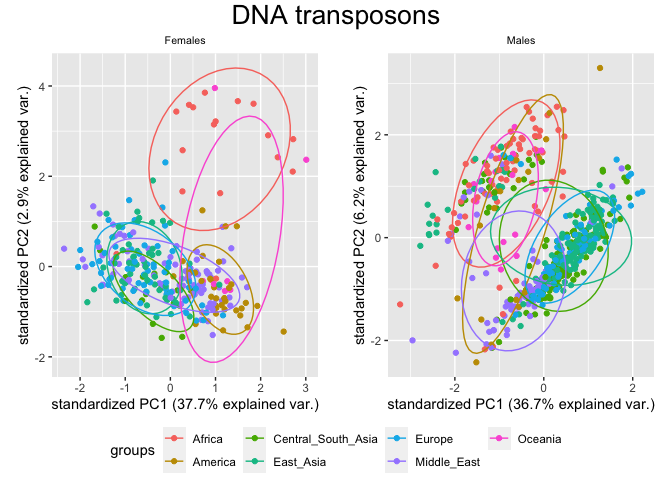
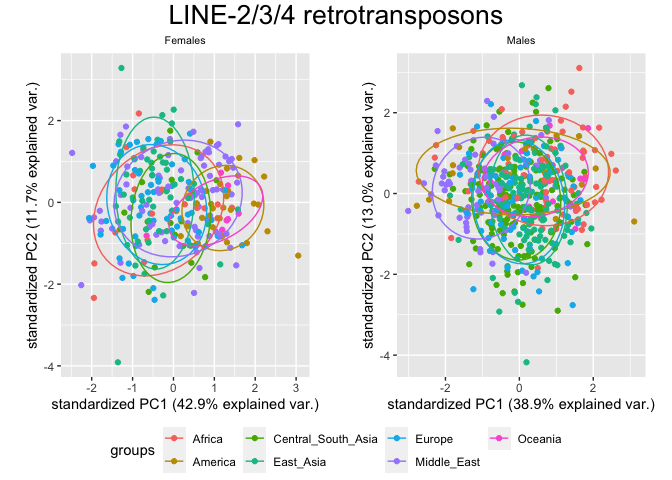
Script 6 mod
Update script 6 (PCA) with better classification of TEs

diff --git a/ric_documentation/HGDP/06_HGDP_PCA.md b/ric_documentation/HGDP/06_HGDP_PCA.md
@@ -10,7 +10,7 @@ library(tidyverse)
 ```
 
     ## ── Attaching packages ─────────────────────────────────────── tidyverse 1.3.2 ──
-    ## ✔ ggplot2 3.3.6      ✔ purrr   0.3.4 
+    ## ✔ ggplot2 3.4.0      ✔ purrr   0.3.4 
     ## ✔ tibble  3.1.8      ✔ dplyr   1.0.10
     ## ✔ tidyr   1.2.1      ✔ stringr 1.4.1 
     ## ✔ readr   2.1.2      ✔ forcats 0.5.2 
@@ -191,28 +191,34 @@ families_in_HGDP <- filter(HGDPcutoff, type=="te") %>% distinct(familyname) %>% 
 
 classification <- filter(classification_tot, familyname %in% families_in_HGDP)
 
-(HGDP_class <- inner_join(HGDPcutoff, classification, by="familyname"))
+HGDP_class <- full_join(HGDPcutoff, classification, by="familyname")
+
+write_tsv(HGDP_class, "/Volumes/Temp1/rpianezza/TE/summary-HGDP/HGDP_cutoff_classified.tsv", col_names = TRUE)
+
+DNA_names <- c("Crypton", "hAT", "Helitron", "Kolobok", "Mariner/Tc1", "Merlin", "MuDR", "piggyBac", "DNA transposon")
+LINE_names <- c("L1", "CR1", "L2", "Crack", "RTE", "RTEX", "R4", "Vingi", "Tx1", "Penelope")
+SINE_names <- c("SINE1/7SL", "SINE2/tRNA", "SINE3/5S", "SINE")
+LTR_names <- c("ERV1", "ERV2", "ERV3", "Gypsy", "Endogenous Retrovirus", "LTR Retrotransposon", "Long terminal repeat", "Non-LTR Retrotransposon")
+satellites_names <- c("Satellite", "satellite", "SAT")
+
+(classification <- HGDP_class %>% mutate(class = case_when(superfamily %in% DNA_names ~ "DNA", superfamily %in% LINE_names ~ "LINE", superfamily %in% SINE_names ~ "SINE", superfamily %in% LTR_names ~ "LTR", superfamily %in% satellites_names ~ "satellite")))
 ```
 
-    ## # A tibble: 799,020 × 12
-    ##    ID      Pop   sex   Country type  famil…¹ length  reads copyn…² batch super…³
-    ##    <chr>   <chr> <chr> <chr>   <chr> <chr>    <dbl>  <dbl>   <dbl> <chr> <chr>  
-    ##  1 HGDP00… Brah… male  Centra… te    LTR65      669 1.10e3 6.57e+0 ro    ERV1   
-    ##  2 HGDP00… Brah… male  Centra… te    HERVK3I   7242 3.89e4 2.15e+1 ro    ERV2   
-    ##  3 HGDP00… Brah… male  Centra… te    HERV9     8399 3.12e5 1.49e+2 ro    ERV1   
-    ##  4 HGDP00… Brah… male  Centra… te    L1PA12…   3072 6.41e4 8.36e+1 ro    L1     
-    ##  5 HGDP00… Brah… male  Centra… te    LTR27C     767 3.13e3 1.63e+1 ro    ERV1   
-    ##  6 HGDP00… Brah… male  Centra… te    LTR16A1    457 4.14e2 3.63e+0 ro    ERV3   
-    ##  7 HGDP00… Brah… male  Centra… te    Tigger…    933 9.32e0 4.01e-2 ro    Marine…
-    ##  8 HGDP00… Brah… male  Centra… te    LTR23      437 7.70e3 7.06e+1 ro    ERV1   
-    ##  9 HGDP00… Brah… male  Centra… te    X32_DNA    336 4.38e1 5.22e-1 ro    Marine…
-    ## 10 HGDP00… Brah… male  Centra… te    LTR53      519 1.36e3 1.05e+1 ro    ERV3   
-    ## # … with 799,010 more rows, 1 more variable: shared_with <chr>, and abbreviated
-    ## #   variable names ¹familyname, ²copynumber, ³superfamily
-
-``` r
-#write_tsv(HGDP_class, "HGDP_cutoff_classified.tsv", col_names = TRUE)
-```
+    ## # A tibble: 1,394,352 × 13
+    ##    ID       Pop   sex   Country type  famil…¹ length reads copyn…² batch super…³
+    ##    <chr>    <chr> <chr> <chr>   <chr> <chr>    <dbl> <dbl>   <dbl> <chr> <chr>  
+    ##  1 HGDP000… Brah… male  Centra… scg   chr1:9…   4152 1052.   1.02  ro    <NA>   
+    ##  2 HGDP000… Brah… male  Centra… scg   chr1:9…   5136 1092.   0.852 ro    <NA>   
+    ##  3 HGDP000… Brah… male  Centra… scg   chr1:1…   3064  832.   1.09  ro    <NA>   
+    ##  4 HGDP000… Brah… male  Centra… scg   chr1:1…   3239  901.   1.11  ro    <NA>   
+    ##  5 HGDP000… Brah… male  Centra… scg   chr1:1…   4035 1102.   1.09  ro    <NA>   
+    ##  6 HGDP000… Brah… male  Centra… scg   chr1:1…   2500  733.   1.18  ro    <NA>   
+    ##  7 HGDP000… Brah… male  Centra… scg   chr1:1…   2599  580.   0.895 ro    <NA>   
+    ##  8 HGDP000… Brah… male  Centra… scg   chr1:1…   2124  477.   0.900 ro    <NA>   
+    ##  9 HGDP000… Brah… male  Centra… scg   chr1:2…   6284 1527.   0.974 ro    <NA>   
+    ## 10 HGDP000… Brah… male  Centra… scg   chr1:2…   3222  884.   1.10  ro    <NA>   
+    ## # … with 1,394,342 more rows, 2 more variables: shared_with <chr>, class <chr>,
+    ## #   and abbreviated variable names ¹familyname, ²copynumber, ³superfamily
 
 This part of the code is work in progress. My idea was to give a bit of
 context to each RepSeq in the dataset, adding a column with the family
@@ -222,37 +228,32 @@ RepBase. I know that this approach is not only super slow but also error
 prone, so I will work on that to improve its reliability.
 
 ``` r
-list_DNA <- c('BLACKJACK', 'CHARLIE1', 'CHARLIE10', 'Charlie11', 'Charlie12', 'Charlie13a', 'Charlie13b', 'Charlie15a', 'Charlie16a', 'Charlie17a', 'Charlie18a', 'Charlie19a', 'CHARLIE1A', 'CHARLIE1B', 'CHARLIE2', 'Charlie21a', 'Charlie22a', 'Charlie24', 'Charlie25', 'Charlie26a', 'Charlie27', 'Charlie28', 'CHARLIE2A', 'CHARLIE2B', 'CHARLIE3', 'CHARLIE4', 'CHARLIE5', 'CHARLIE6', 'CHARLIE7', 'CHARLIE8', 'CHARLIE9', 'CHESHIRE', 'CHESHIRE_A', 'DNA1_Mam', 'EuthAT-1', 'EuthAT-2', 'EuthAT-2B', 'EuthAT-N1', 'Eutr17', 'Eutr7', 'Eutr8', 'EUTREP1', 'EUTREP3', 'EutTc1-N1', 'FORDPREFECT', 'FORDPREFECT_A', 'GOLEM', 'GOLEM_A', 'GOLEM_B', 'GOLEM_C', 'Helitron1Nb_Mam', 'Helitron3Na_Mam', 'HSMAR1', 'HSMAR2', 'HSTC2', 'Kanga1', 'Kanga11a', 'Kanga1d', 'KANGA2_A', 'LOOPER', 'MamRep137', 'MamRep1879', 'MamRep38', 'MamRep4096', 'MamRep434', 'MamRep488', 'MamTip2', 'MARE1', 'MARE10', 'MER103', 'MER103C', 'MER104', 'MER105', 'MER106', 'MER106B', 'MER107', 'MER112', 'MER113', 'MER113B', 'MER115', 'MER117', 'MER119', 'MER121', 'MER1A', 'MER1B', 'MER2', 'MER20', 'MER20B', 'MER28', 'MER2B', 'MER3', 'MER30', 'MER30B', 'MER33', 'MER44A', 'MER44B', 'MER44C', 'MER44D', 'MER45', 'MER45B', 'MER45C', 'MER45R', 'MER46C', 'MER47B', 'MER53', 'MER58A', 'MER58B', 'MER58C', 'MER58D', 'MER5A', 'MER5A1', 'MER5B', 'MER5C', 'MER5C1', 'MER6', 'MER63A', 'MER63B', 'MER63C', 'MER63D', 'MER69A', 'MER69B', 'MER69C', 'MER6A', 'MER6B', 'MER6C', 'MER75', 'MER75B', 'MER8', 'MER80', 'MER80B', 'MER82', 'MER91A', 'MER91B', 'MER96', 'MER96B', 'MER97A', 'MER97B', 'MER97C', 'MER99', 'Merlin1_HS', 'MERX', 'ORSL', 'ORSL-2a', 'ORSL-2b', 'RICKSHA', 'RICKSHA_0', 'Ricksha_a', 'TIGGER1', 'Tigger10', 'Tigger12', 'Tigger12A', 'Tigger13a', 'Tigger14a', 'Tigger15a', 'Tigger16a', 'Tigger16b', 'TIGGER2', 'Tigger2b_Pri', 'Tigger3b', 'Tigger3c', 'Tigger3d', 'Tigger4a', 'TIGGER5', 'TIGGER5_A', 'TIGGER5_B', 'TIGGER5A', 'TIGGER6A', 'TIGGER6B', 'TIGGER7', 'TIGGER8', 'TIGGER9', 'Tigger9b', 'UCON104', 'UCON107', 'UCON132a', 'UCON42', 'UCON74', 'UCON79', 'X1_DNA', 'X10b_DNA', 'X11_DNA', 'X12_DNA', 'X13_DNA', 'X15_DNA', 'X18_DNA', 'X20_DNA', 'X21_DNA', 'X23_DNA', 'X24_DNA', 'X25_DNA', 'X26_DNA', 'X27_DNA', 'X28_DNA', 'X29a_DNA', 'X29b_DNA', 'X2a_DNA', 'X2b_DNA', 'X30_DNA', 'X31_DNA', 'X32_DNA', 'X33a_DNA', 'X34_DNA', 'X4a_DNA', 'X4b_DNA', 'X5b_DNA', 'X6a_DNA', 'X6b_DNA', 'X7_DNA', 'X9a_DNA', 'X9b_DNA', 'X9c_DNA', 'ZAPHOD', 'ZOMBI', 'ZOMBI_A', 'ZOMBI_B', 'ZOMBI_C')
-
-list_LTR <- c('LTR104_Mam', 'LTR11', 'LTR85a', 'LTR85b', 'LTR85c', 'LTR90A', 'LTR90B', 'X1_LR', 'X2_LR', 'X3_LR', 'X4_LR')
-
-list_nonLTR <- c("ALINE", "ALU", "CR1_Mam", "HAL1", "HAL1B", "HAL1M8", "IN25", "L1", "L1HS", "L1M1_5", "L1M1B_5","L1M2A_5","L1M2A1_5","L1M2B_5","L1M2C_5","L1M3A_5","L1M3B_5","L1M3C_5","L1M3D_5","L1M3DE_5","L1M4B","L1M6_5end","L1M6B_5end","L1M7_5end","L1MA1","L1MA10","L1MA2","L1MA3","L1MA4","L1MA4A","L1MA5","L1MA5A","L1MA6","L1MA7","L1MA8","L1MA9","L1MA9_5","L1MB1","L1MB2","L1MB3","L1MB3_5","L1MB4","L1MB4_5","L1MB5","L1MB6_5","L1MB7","L1MB8","L1MC1","L1MC2","L1MC3","L1MC4","L1MC4_5end","L1MC4B","L1MC5","L1MCA_5","L1MCB_5","L1MCC_5","L1MD1","L1MD1_5","L1MD2","L1MD3","L1MDA_5","L1MDB_5","L1ME1","L1ME2","L1ME3","L1ME3A","L1ME3C_3end","L1ME3D_3end","L1ME3E_3end","L1ME3F_3end","L1ME4","L1ME4A","L1ME5","L1ME5_3end","L1MEA_5","L1MEB_5","L1MEC_5","L1MED_5","L1MEE_5","L1MEe_5end","L1MEf_5end","L1MEg_5end","L1P_MA2","L1P4a_5end","L1P4b_5end","L1P4c_5end","L1P4c_5end","L1P4e_5end","L1PA10","L1PA11","L1PA12","L1PA12_5","L1PA13","L1PA13_5","L1PA14","L1PA14_5","L1PA15","L1PA16","L1PA16_5","L1PA17_5","L1PA2","L1PA3","L1PA4","L1PA6","L1PA7","L1PA7_5","L1PA8","L1PB1","L1PB2","L1PB2c","L1PB3","L1PB4","L1PBA_5","L1PBA1_5","L1PBB_5","L1PREC1","L1PREC2","L2","L2B","L2C","L2D","L3","L3b_3end\t","L4","L5","MamSINE1","MARE3","MARE6","MIR","MIR3","MIRb","MIRc","SVA_A","THER1","THER1","UCON55","UCON86","X12_LINE","X13_LINE","X15_LINE","X17_LINE","X18_LINE","X19_LINE","X20_LINE","X21_LINE","X24_LINE","X3_LINE","L1M2_5","L1ME_ORF2","L1P4d_5end" )
-
-list_simple_repeats <- c('ALR', 'ALR_', 'ALR1', 'ALR2', 'ALRa', 'ALRa_', 'ALRb', 'BSRf', 'CER', 'GSAT', 'GSATII', 'GSATX', 'HSATI', 'HSATII', 'LSAU', 'MSR1', 'REP522', 'SATR1', 'SATR2', 'SN5', 'SVA2', 'TAR1')
-
-list_non_classified <- c('Eutr1', 'Eutr10', 'Eutr11', 'Eutr12', 'Eutr13', 'Eutr14', 'Eutr15', 'Eutr16', 'Eutr18', 'Eutr2', 'Eutr4', 'Eutr5', 'Eutr6', 'EUTREP11', 'EUTREP12', 'EUTREP14', 'EUTREP15', 'EUTREP2', 'EUTREP5', 'EUTREP6', 'EUTREP7', 'EUTREP8', 'MamRep564', 'MamRep605', 'MER35', 'MER122', 'MER124', 'UCON103', 'UCON105', 'UCON106', 'UCON32', 'UCON33', 'UCON38', 'UCON40', 'UCON43', 'UCON44', 'UCON45', 'UCON46', 'UCON47', 'UCON48', 'UCON53', 'UCON54', 'UCON63', 'UCON64', 'UCON65', 'UCON72', 'UCON75', 'UCON76', 'UCON84', 'UCON89', 'UCON93', 'UCON96')
+LINE <- filter(classification, type=="te", class=="LINE")
+PCA(LINE, "LINEs")
 ```
 
-``` r
-nonLTR <- subset(HGDPcutoff, type=="te") %>% filter(familyname %in% list_nonLTR)
-PCA(nonLTR, "Non-LTR retrotransposons")
-```
-
-![](06_HGDP_PCA_files/figure-gfm/unnamed-chunk-7-1.png)<!-- -->
+![](06_HGDP_PCA_files/figure-gfm/unnamed-chunk-6-1.png)<!-- -->
 
 ``` r
-DNA <- subset(HGDPcutoff, type=="te") %>% filter(familyname %in% list_DNA)
+DNA <- filter(classification, type=="te", class=="DNA")
 PCA(DNA, "DNA transposons")
 ```
 
-![](06_HGDP_PCA_files/figure-gfm/unnamed-chunk-7-2.png)<!-- -->
+![](06_HGDP_PCA_files/figure-gfm/unnamed-chunk-6-2.png)<!-- -->
 
 ``` r
-simple_repeats <- subset(HGDPcutoff, type=="te") %>% filter(familyname %in% list_simple_repeats)
-PCA(simple_repeats, "Simple repeats")
+LTR <- filter(classification, type=="te", class=="LTR")
+PCA(LTR, "LTR retrotransposons")
 ```
 
-![](06_HGDP_PCA_files/figure-gfm/unnamed-chunk-7-3.png)<!-- -->
+![](06_HGDP_PCA_files/figure-gfm/unnamed-chunk-6-3.png)<!-- -->
+
+``` r
+simple_repeats <- filter(classification, type=="te", class=="satellite")
+PCA(simple_repeats, "Satellites")
+```
+
+![](06_HGDP_PCA_files/figure-gfm/unnamed-chunk-6-4.png)<!-- -->
 
 I notice that the pattern previously described is evident in **non-LTR
 retrotransposons** as well as in **DNA transposons**, but not in
@@ -261,171 +262,20 @@ into different populations as TEs, so this is an expected result, but
 still nice to see.
 
 ``` r
-L1 <- subset(HGDPcutoff, type=="te") %>% filter(grepl("L1", familyname))
+L1 <- filter(classification, type=="te", superfamily=="L1")
 PCA(L1, "LINE-1 retrotransposons")
 ```
 
-![](06_HGDP_PCA_files/figure-gfm/unnamed-chunk-8-1.png)<!-- -->
+![](06_HGDP_PCA_files/figure-gfm/unnamed-chunk-7-1.png)<!-- -->
 
 ``` r
-L2 <- subset(HGDPcutoff, type=="te") %>% filter(grepl("L2|L3|L4",familyname))
+L2 <- subset(classification, type=="te") %>% filter(grepl("L2|L3|L4",familyname))
 PCA(L2, "LINE-2/3/4 retrotransposons")
 ```
 
-![](06_HGDP_PCA_files/figure-gfm/unnamed-chunk-8-2.png)<!-- -->
-
-``` r
-#SINEs <- subset(HGDPcutoff, type=="te") %>% filter(grepl("ALU|SVA_A", familyname))
-#PCA(SINEs, "SINEs")
-```
+![](06_HGDP_PCA_files/figure-gfm/unnamed-chunk-7-2.png)<!-- -->
 
 The same pattern is well shown in **LINE-1** retrotransposons, known to
 be the most active TE family in humans, but is totally absent in
 **LINE-2/3-4** retrotransposons, which are expected to be extint in
 humans.
-
-### Testing a cool hypothesis - Bougainville and Native Americans
-
-Looking back at script 4 (Geographical details), I noticed that in most
-of the interesting TE investigated there was an interesting similarity
-between the copynumber in **Americans** populations and in the Oceanian
-population **Bougainville** (the most eastern population in Oceania on
-the map).
-
-To clarify this relationship in a PCA, I modified the `Country` column
-in the dataset as follows:
-
-- Individuals from `Europe`, `Middle_East`, `Central_South_Asia` and
-  `East_Asia` have been grouped under the label `Eurasia`.
-- **Oceanians** have been divided into `Bougainville` and
-  `Other Oceanians`.
-
-``` r
-HGDP_mod <- HGDPcutoff %>% mutate(Country = replace(Country, Country == 'Central_South_Asia', 'Eurasia')) %>% mutate(Country = replace(Country, Country == 'East_Asia', 'Eurasia')) %>% mutate(Country = replace(Country, Country == 'Middle_East', 'Eurasia')) %>% mutate(Country = replace(Country, Country == 'Europe', 'Eurasia')) %>% mutate(Country = replace(Country, Pop == 'PapuanSepik', 'Other Oceanians')) %>% mutate(Country = replace(Country, Pop == 'PapuanHighlands', 'Other Oceanians')) %>% mutate(Country = replace(Country, Pop == 'Bougainville', 'Bougainville'))
-
-PCA(HGDP_mod, "All the repetitive sequences")
-```
-
-![](06_HGDP_PCA_files/figure-gfm/unnamed-chunk-9-1.png)<!-- -->
-
-``` r
-L1_mod <- subset(HGDP_mod, type=="te") %>% filter(grepl("L1", familyname))
-PCA(L1_mod, "LINE-1 retrotransposons")
-```
-
-![](06_HGDP_PCA_files/figure-gfm/unnamed-chunk-9-2.png)<!-- -->
-
-``` r
-nonLTR_mod <- subset(HGDP_mod, type=="te") %>% filter(familyname %in% list_nonLTR)
-PCA(nonLTR_mod, "Non-LTR retrotransposons")
-```
-
-![](06_HGDP_PCA_files/figure-gfm/unnamed-chunk-9-3.png)<!-- -->
-
-I notice that the `Bougainville` **females** always fall inside the
-ellipse of the **americans** and are far away in the plot to the
-`Other Oceanians`.
-
-This is true also for the **males** even if not that clearly, but I
-think that this is caused by the American males outliers that cluster
-with the Africans and that alter the ellipse shape of the Americans.
-Also, there is no a single `Bouganville` **male** that is clustered far
-from the Africans, in any of the showed plots.
-
-### PCA for the additional samples
-
-``` r
-(HGDP_plus <- read_csv("/Volumes/Temp1/rpianezza/TE/summary-HGDP/HGDP-plus.csv"))
-```
-
-    ## Rows: 1442036 Columns: 10
-    ## ── Column specification ────────────────────────────────────────────────────────
-    ## Delimiter: ","
-    ## chr (7): ID, pop, sex, country, type, familyname, dataset
-    ## dbl (3): length, reads, copynumber
-    ## 
-    ## ℹ Use `spec()` to retrieve the full column specification for this data.
-    ## ℹ Specify the column types or set `show_col_types = FALSE` to quiet this message.
-
-    ## # A tibble: 1,442,036 × 10
-    ##    ID        pop    sex   country     type  famil…¹ length reads copyn…² dataset
-    ##    <chr>     <chr>  <chr> <chr>       <chr> <chr>    <dbl> <dbl>   <dbl> <chr>  
-    ##  1 HGDP00001 Brahui male  Central_So… scg   chr1:9…   4152 1052.   1.02  HGDP   
-    ##  2 HGDP00001 Brahui male  Central_So… scg   chr1:9…   5136 1092.   0.852 HGDP   
-    ##  3 HGDP00001 Brahui male  Central_So… scg   chr1:1…   3064  832.   1.09  HGDP   
-    ##  4 HGDP00001 Brahui male  Central_So… scg   chr1:1…   3239  901.   1.11  HGDP   
-    ##  5 HGDP00001 Brahui male  Central_So… scg   chr1:1…   4035 1102.   1.09  HGDP   
-    ##  6 HGDP00001 Brahui male  Central_So… scg   chr1:1…   2500  733.   1.18  HGDP   
-    ##  7 HGDP00001 Brahui male  Central_So… scg   chr1:1…   2599  580.   0.895 HGDP   
-    ##  8 HGDP00001 Brahui male  Central_So… scg   chr1:1…   2124  477.   0.900 HGDP   
-    ##  9 HGDP00001 Brahui male  Central_So… scg   chr1:2…   6284 1527.   0.974 HGDP   
-    ## 10 HGDP00001 Brahui male  Central_So… scg   chr1:2…   3222  884.   1.10  HGDP   
-    ## # … with 1,442,026 more rows, and abbreviated variable names ¹familyname,
-    ## #   ²copynumber
-
-``` r
-(HGDP_plus_mod <- dplyr::rename(HGDP_plus, Country=country, Pop=pop) %>% mutate(Country = replace(Country, Country == 'Central_South_Asia', 'Eurasia')) %>% mutate(Country = replace(Country, Country == 'East_Asia', 'Eurasia')) %>% mutate(Country = replace(Country, Country == 'Middle_East', 'Eurasia')) %>% mutate(Country = replace(Country, Country == 'Europe', 'Eurasia')) %>% mutate(Country = replace(Country, Pop == 'Hawaiian', 'Hawaiian')) %>% mutate(Country = replace(Country, Pop == 'Icelandic', 'Icelandic')) %>% mutate(Country = replace(Country, Pop == 'Australian', 'Australian')) %>% mutate(Country = replace(Country, Pop == 'Igorot', 'Igorot')) %>% mutate(Country = replace(Country, Pop == 'Dusun', 'Dusun')) %>% mutate(Country = replace(Country, Pop == 'Maori', 'Maori')) %>% filter(type=="te"))
-```
-
-    ## # A tibble: 826,572 × 10
-    ##    ID        Pop    sex   Country type  familyname length  reads copyn…¹ dataset
-    ##    <chr>     <chr>  <chr> <chr>   <chr> <chr>       <dbl>  <dbl>   <dbl> <chr>  
-    ##  1 HGDP00001 Brahui male  Eurasia te    LTR65         669 1.10e3 6.57e+0 HGDP   
-    ##  2 HGDP00001 Brahui male  Eurasia te    HERVK3I      7242 3.89e4 2.15e+1 HGDP   
-    ##  3 HGDP00001 Brahui male  Eurasia te    HERV9        8399 3.12e5 1.49e+2 HGDP   
-    ##  4 HGDP00001 Brahui male  Eurasia te    L1PA12_5     3072 6.41e4 8.36e+1 HGDP   
-    ##  5 HGDP00001 Brahui male  Eurasia te    LTR27C        767 3.13e3 1.63e+1 HGDP   
-    ##  6 HGDP00001 Brahui male  Eurasia te    LTR16A1       457 4.14e2 3.63e+0 HGDP   
-    ##  7 HGDP00001 Brahui male  Eurasia te    Tigger16a     933 9.32e0 4.01e-2 HGDP   
-    ##  8 HGDP00001 Brahui male  Eurasia te    LTR23         437 7.70e3 7.06e+1 HGDP   
-    ##  9 HGDP00001 Brahui male  Eurasia te    X32_DNA       336 4.38e1 5.22e-1 HGDP   
-    ## 10 HGDP00001 Brahui male  Eurasia te    LTR53         519 1.36e3 1.05e+1 HGDP   
-    ## # … with 826,562 more rows, and abbreviated variable name ¹copynumber
-
-``` r
-filter(HGDP_plus_mod, Country=="Maori")
-```
-
-    ## # A tibble: 984 × 10
-    ##    ID      Pop   sex   Country type  familyname length     reads copyn…¹ dataset
-    ##    <chr>   <chr> <chr> <chr>   <chr> <chr>       <dbl>     <dbl>   <dbl> <chr>  
-    ##  1 NA17386 Maori male  Maori   te    LTR65         669   1067.   4.97e+0 SGDP   
-    ##  2 NA17386 Maori male  Maori   te    HERVK3I      7242  42985.   1.85e+1 SGDP   
-    ##  3 NA17386 Maori male  Maori   te    HERV9        8399 365646.   1.36e+2 SGDP   
-    ##  4 NA17386 Maori male  Maori   te    L1PA12_5     3072  59091.   6.00e+1 SGDP   
-    ##  5 NA17386 Maori male  Maori   te    LTR27C        767   3426.   1.39e+1 SGDP   
-    ##  6 NA17386 Maori male  Maori   te    LTR16A1       457    393.   2.68e+0 SGDP   
-    ##  7 NA17386 Maori male  Maori   te    Tigger16a     933      9.34 3.12e-2 SGDP   
-    ##  8 NA17386 Maori male  Maori   te    LTR23         437   9448.   6.74e+1 SGDP   
-    ##  9 NA17386 Maori male  Maori   te    X32_DNA       336     35.5  3.29e-1 SGDP   
-    ## 10 NA17386 Maori male  Maori   te    LTR53         519   1169.   7.02e+0 SGDP   
-    ## # … with 974 more rows, and abbreviated variable name ¹copynumber
-
-``` r
-PCA(HGDP_plus_mod, "All the repetitive sequences")
-```
-
-    ## Warning in matrix(as.vector(f$copynumber), nrow = females, ncol = len, byrow =
-    ## T): data length [280135] is not a sub-multiple or multiple of the number of rows
-    ## [290]
-
-    ## Warning in matrix(as.vector(f$Country), nrow = females, ncol = len, byrow = T):
-    ## data length [280135] is not a sub-multiple or multiple of the number of rows
-    ## [290]
-
-    ## Warning in matrix(as.vector(m$copynumber), nrow = males, ncol = len, byrow =
-    ## T): data length [546437] is not a sub-multiple or multiple of the number of rows
-    ## [566]
-
-    ## Warning in matrix(as.vector(m$Country), nrow = males, ncol = len, byrow = T):
-    ## data length [546437] is not a sub-multiple or multiple of the number of rows
-    ## [566]
-
-![](06_HGDP_PCA_files/figure-gfm/unnamed-chunk-10-1.png)<!-- -->
-
-``` r
-L1_plus_mod <- subset(HGDP_plus_mod, type=="te") %>% filter(grepl("L1", familyname))
-PCA(L1_plus_mod, "LINE-1 retrotransposons")
-```
-
-![](06_HGDP_PCA_files/figure-gfm/unnamed-chunk-10-2.png)<!-- -->
